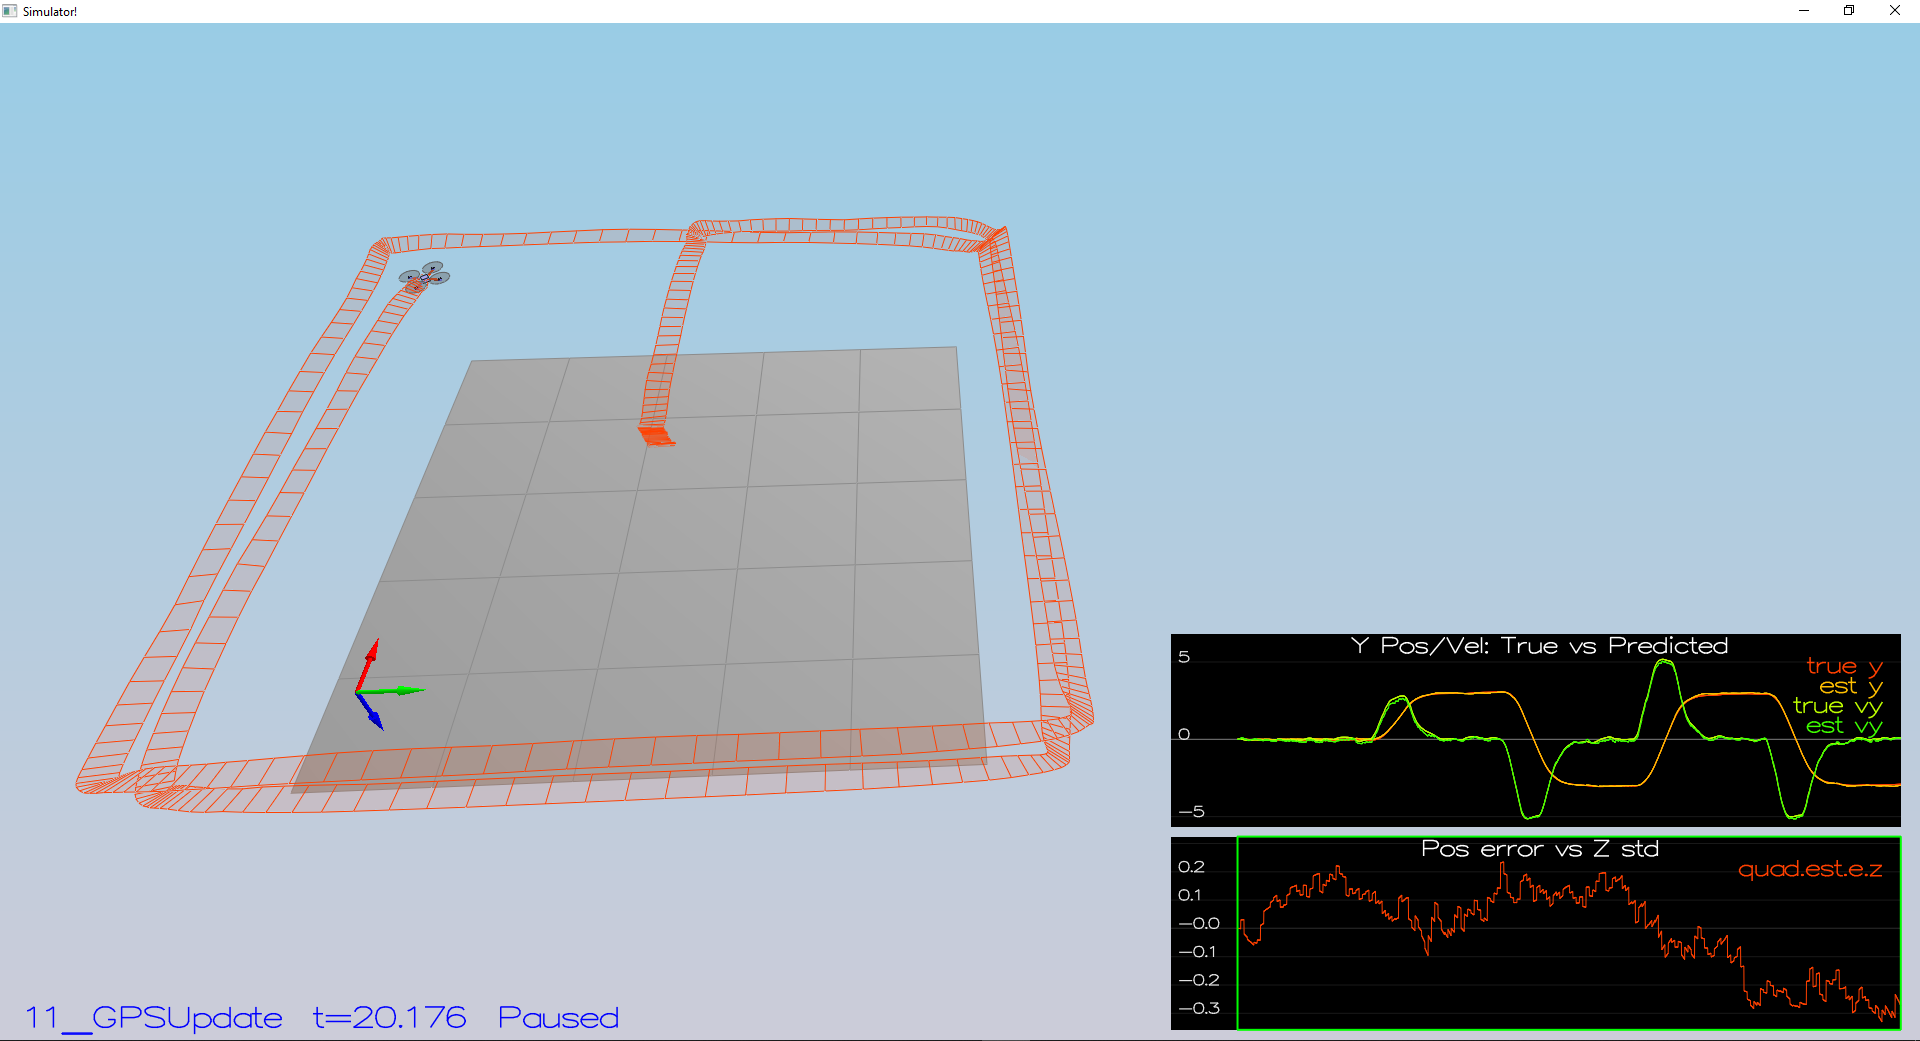
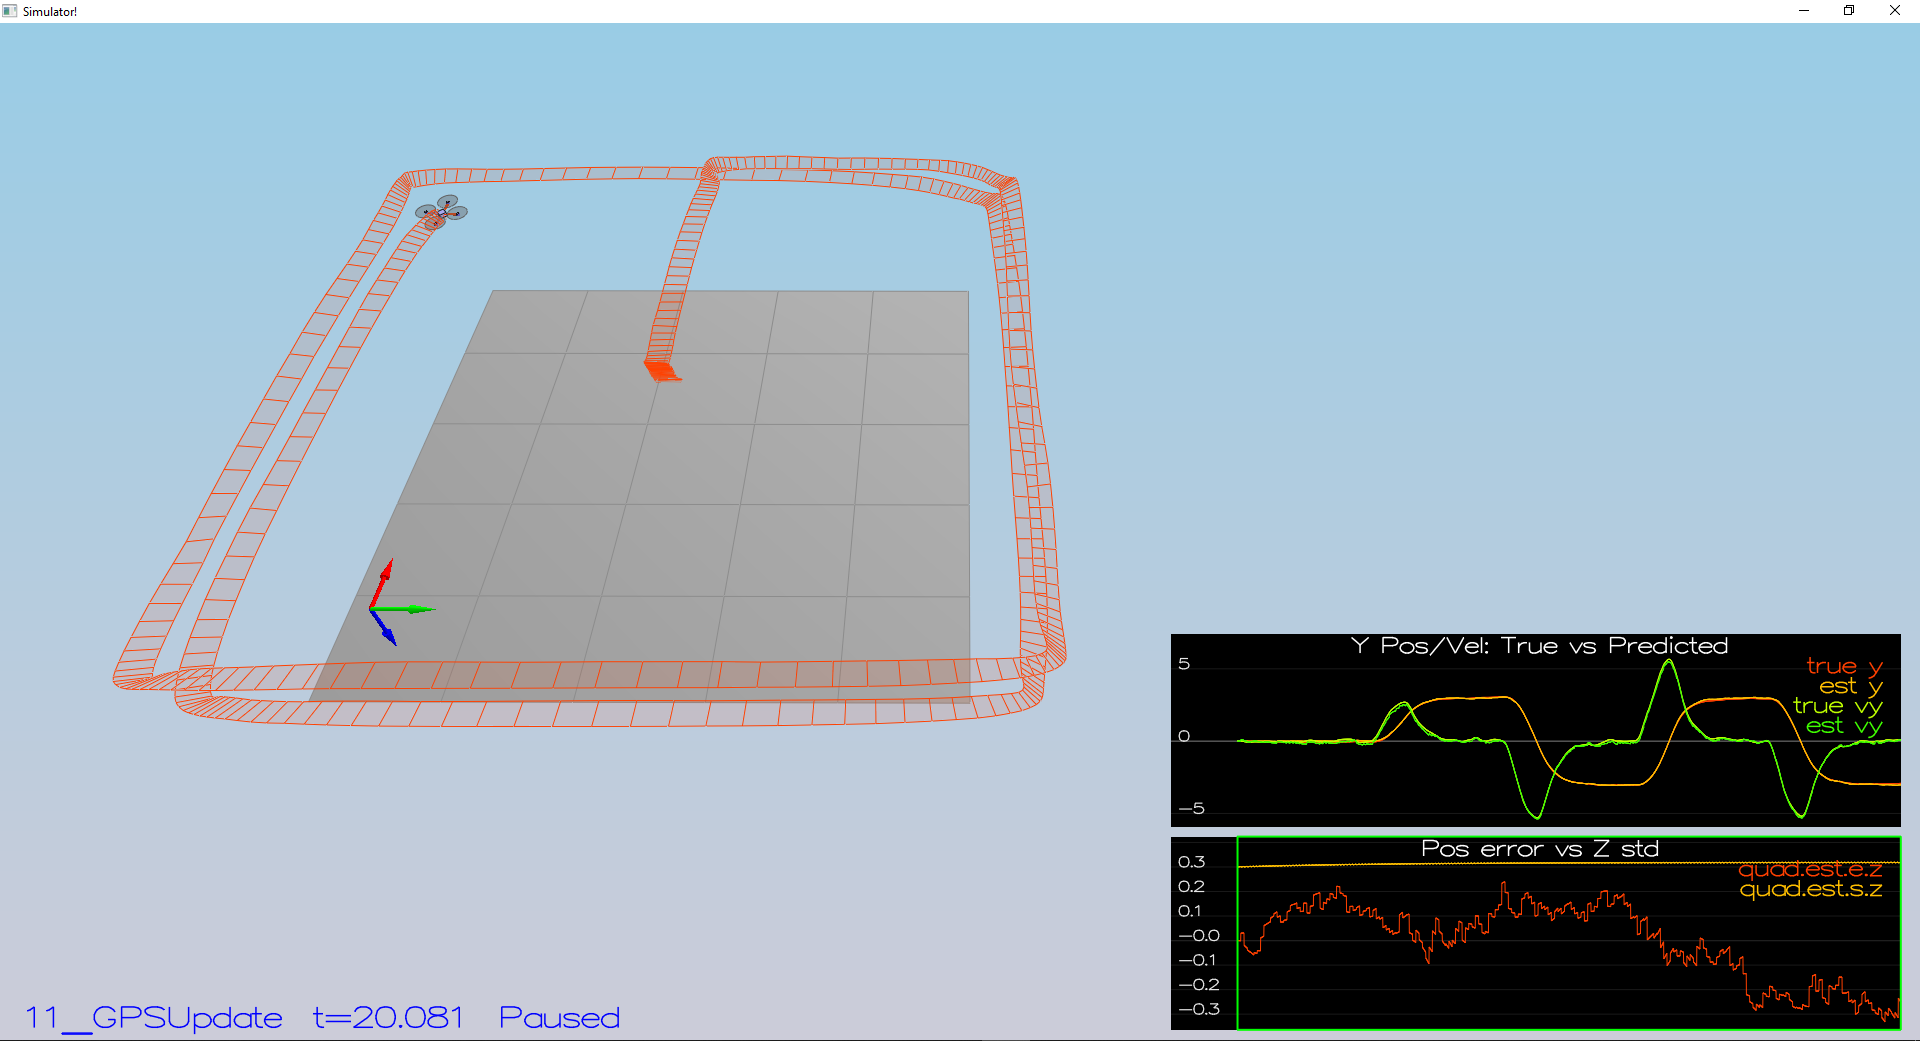
Address reviewer comments
In particular fixed tuning for my controller which was tuned wrong but which didn't demonstrate poor performance because the project was not rebuilt (so the simulation results weren't actually for my controller).

diff --git a/readme.md b/readme.md
@@ -7,6 +7,8 @@ Calculated the sample standard deviation according to:
 
 Note that for calculation, sample standard deviation was used (denominator: n-1) instead of population standard deviation (denominator: n) since the underlying data was sampled and since the sample standard deviation is more conservative (larger standard deviation).
 
+To determine the following values, implemented the equation above in Excel.  Note that Excel's STDEV.S was not used; the equation above was implemented without using any of Excel's built-in statistics functions.
+
 Calculated values:
 * MeasuredStdDev_GPSPosXY = 0.714619
 * MeasuredStdDev_AccelXY = 0.489301
@@ -64,6 +66,6 @@ Met the performance criteria for each step of the project with the provided cont
  
  ## Meet Performance Criteria - My Controller
  * Scenario 11 - GPS Update
-    * ![Scenario 11 - GPS Update (My Controller From 'Building A Controller' Project)](readmeFigures/scenario11MyController.png "Scenario 11 - GPS Update (My Controller)")
+    * ![Scenario 11 - GPS Update (My Controller From 'Building A Controller' Project)](readmeFigures\scenario11MyController.png "Scenario 11 - GPS Update (My Controller)")
         * De-tuned my controller from the 'Building A Controller' project to successfully fly the final desired box trajectory with my estimator and realistic sensors.
         * < 1 m error for entire box flight
